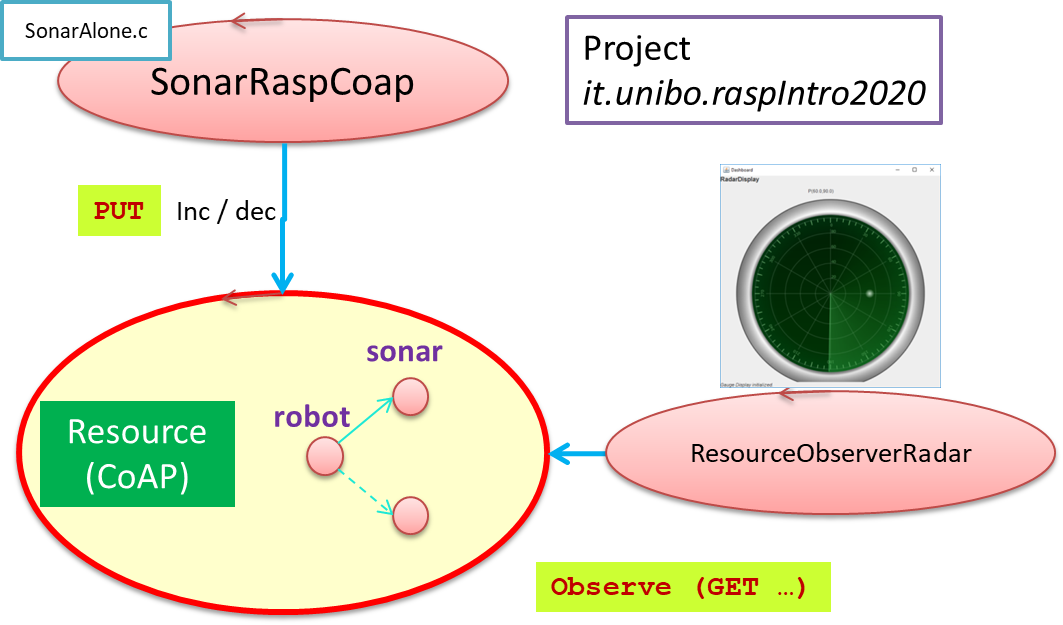
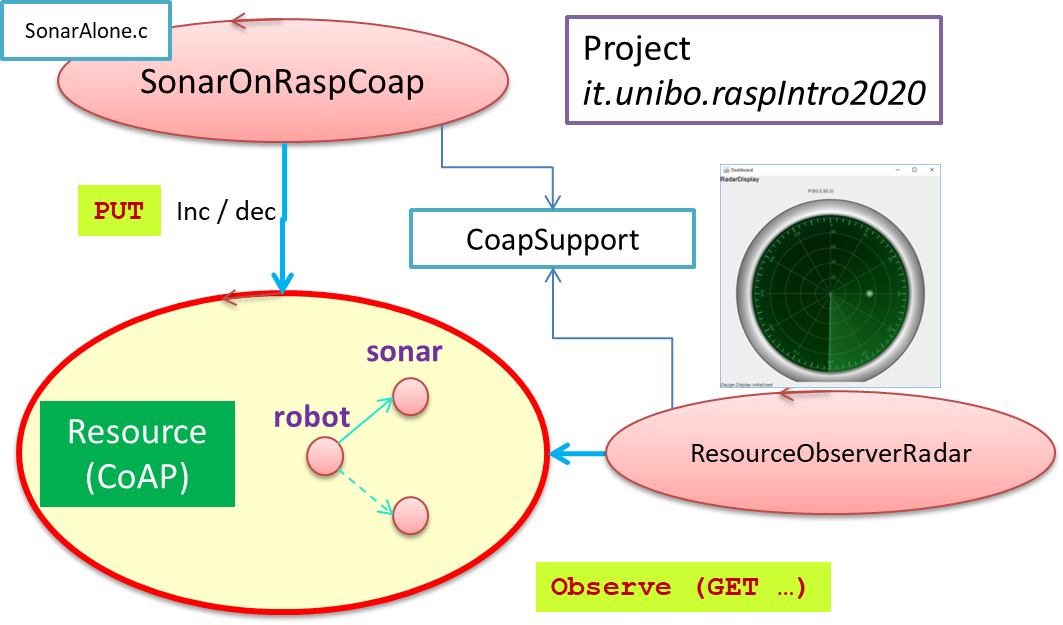
LabSonar again

diff --git a/it.unibo.coapintro/userDocs/LabCoAP.html b/it.unibo.coapintro/userDocs/LabCoAP.html
@@ -154,9 +154,73 @@ table, th, td {
 </div>  
 
 <div class="body"> 
-<h2>Introduction</h2>
+<h2>Introduction: Representational State Transfer (REST)</h2>
 
-<h3>The Constrained Application Protocol</h3>
+REST is a <em>resource-oriented architecture</em> (<k>ROA</k>), where every component of a system or an
+application is called a <em>resource</em>. A resource is explicitly identified and can be individually addressed.  
+<br/><br/>
+Using the exact same standard naming scheme as all other web resources
+allows you to seamlessly integrate Things and their properties into the web because
+their functions, data, or sensors can be linked to, shared, bookmarked, and used just
+like anything else on the web.
+<br/><br/>
+Let us recall the basic concepts:
+
+
+<ol>
+<li>Interactions between components are based on the <em>request-response pattern</em>, where a client
+sends a request to a server and gets back a response</li>
+<li>Loose coupling between components can be achieved using a <em>uniform interface</em> that all components in the system respect.<br/>
+Uniform interfaces make it easy to design a <em>layered system</em>, which means that several
+intermediate components can hide what’s behind them.</li>
+<li><em>Caching</em> is a key element in the performance.<br/><br/></li>
+<li>A <em>resource</em> is any concept or piece of data in an application
+that needs to be referenced or used. Every resource must have a <em>unique identifier</em>
+and should be addressable using a <em>unique referencing mechanism</em>. On the
+web, this is done by assigning every resource a unique <k>URL</k> .</li>
+<li>A <k>URL</k> (<em>Uniform Resource Locator</em>) is a type of <tt>URI</tt> ( (<em>Uniform Resource Identifier</em>)) that identifies a resource via a representation of its primary
+access mechanism. On the web, a <tt>URL</tt> is a <tt>URI</tt> beginning with the <tt>http:// scheme</tt>
+<br/>
+<table style="width:100%" border="1">
+<tr>
+<td style="width:50%">
+<img src="./img/thingURL.png" alt="thingURL" width="90%"  />
+</td>
+<td><h3>A Thing URL</h3>
+<m>
+the protocol is <tt>HTTP+TLS/SSL</tt> (<k>HTTPS</k>); <br/>
+the domain is resolved by <tt>DNS</tt> to an <tt>IP</tt> address; <br/>
+the port is used by <tt>TCP</tt> to know what process to redirect to;<br/>
+finally the <tt>REST</tt> resource is specified.
+</m>
+</td>
+</tr>
+</table>
+
+<br/> 
+
+</li>
+<li>A <k>URI</k> (standard scheme defined in <tt>RFC 3986.4</tt>) 
+is a sequence of characters that unambiguously identifies an abstract or physical
+resource.
+
+<pre>
+
+&lt;scheme> ":" <authority><path> [ "?" query ] [ "#" fragment ]
+
+</pre>
+</li>
+
+<li>Servers shouldn’t keep track of each client’s state because stateless applications are easier to scale.
+Instead, application state should be addressable via its own URL, and each
+resource should contain links and information about what operations are possible
+in each state and how to navigate across states 
+(<em>Hypermedia as the engine of the application state</em> (<k>HATEOAS</k>)).</li>
+</ol>
+
+
+
+<h2>The Constrained Application Protocol</h2>
 
 From <a href="https://en.wikipedia.org/wiki/Constrained_Application_Protocol" target="web">wikipedia</a> we read:
 
@@ -213,21 +277,24 @@ It is invoked whenever the path of a resource changes, when a child resource is 
 <tbody>	
 <tr>
 <td style="width:50%" ><img src="./img/coapIntro.png" alt="coapIntro" width="100%"  /></td>
-<td>Project <i>it.unibo.coapIntro</i>
+<td>Project <i>it.unibo.coapIntro</i><br/>
 <m>
-<ol>
-<li>Activate the CoAP-observable resource <a href="../src/it/unibo/coapintro/Resource.java" target="code">Resource.java</a><br/><br/></li>
-<li>Look at the initial content of the resource by running the reader-client <a href="../src/it/unibo/coapintro/ResourceClientReader.java" target="code">
-ResourceClientReader.java</a><br/><br/></li>
-<li>Activate a observer-client <a href="../src/it/unibo/coapintro/ResourceClientObserver.java" target="code">ResourceClientObserver.java</a><br/><br/></li>
-<li>Update the resource by running the producer-client <a href="../src/it/unibo/coapintro/ResourceClientProducer.java" target="code">ResourceClientProducer.java</a></li>
-</ol>
+The device has <tt>robot</tt> as root and <tt>sonar</tt> as its sensor resource:
+<img src="./img/urlExample.png" alt="urlExample" width="100%"  /><br/><br/>
 </m>
  </td>
 </tr>
 </tbody>
 </table>
- 
+
+To run:
+<ol>
+<li>Activate the CoAP-observable resource <a href="../src/it/unibo/coapintro/Resource.java" target="code">Resource.java</a>/></li>
+<li>Look at the initial content of the resource by running the reader-client <a href="../src/it/unibo/coapintro/ResourceClientReader.java" target="code">
+ResourceClientReader.java</a></li>
+<li>Activate a observer-client <a href="../src/it/unibo/coapintro/ResourceClientObserver.java" target="code">ResourceClientObserver.java</a></li>
+<li>Update the resource by running the producer-client <a href="../src/it/unibo/coapintro/ResourceClientProducer.java" target="code">ResourceClientProducer.java</a></li>
+</ol>
 	      	
 <br/><br/> 	
 </div>  

diff --git a/it.unibo.raspIntro2020/userDocs/LabSonar_2020.html b/it.unibo.raspIntro2020/userDocs/LabSonar_2020.html
@@ -109,7 +109,7 @@ kc{
 }
 pre{
 	font-family: "Helvetica";
-	font-size: 60%;
+	font-size: 90%;
 	background-color: #fcf8c7;
 	border: 1px solid blue;
 }
@@ -212,8 +212,61 @@ Let us start from the basic principles and concepts of interaction among distrib
 reported in 
 <a href="http://htmlpreview.github.com/?https://github.com/anatali/iss2020Lab/blob/master/it.unibo.coapintro/userDocs/LabCoAP.html" target="lab">
 LabCoAP | Introduction to CoAP</a>.
+<br/><br/>
+Since REST is a <em>resource-oriented architecture</em>,at the center of our system,  there is now the <k>CoapResource</k>
+(<a href="../src/javacode/Resource.java" target="code">Resource.java</a>) defined as follows:
+<table style="width:100%" border="1">
+<tr>
+<td style="width:50%">
+<pre>
+public class Resource extends CoapResource {
+...
+}
+	public static void main(String[] args) {
+		CoapServer server = new CoapServer();
+		server.add( 
+				new Resource("robot").add(
+					new Resource("sonar") )
+		);
+		server.start();
+	}
 
-<i>it.unibo.raspIntro2020</i>
+</pre>
+
+</td>
+
+<td>The device has <tt>robot</tt> as root and <tt>sonar</tt> as its sensor resource:
+<img src="./img/urlExample.png" alt="urlExample" width="100%"  /><br/><br/>
+
+ 
+</td>
+<m></m>
+</tr>
+</table>
+
+ 
+
+This resource allows us to acquire sonar data in RESTful way, by using the CoAP protocol.
+For example:
+<table style="width:100%" border="1">
+<tr>
+<td style="width:50%">
+<pre>
+CoapClient client = new CoapClient();
+String uriStr     = "coap://localhost:5683/robot/sonar";
+client.setURI( uriStr );
+CoapResponse respGet = client.get();
+String sonarData = respGet.getResponseText()
+</pre>
+
+</td>
+<td></td>
+</tr>
+</table>
+
+<br/><br/>
+ 
+ 
 
  <table style="width:98%">
 <tbody>	
@@ -232,17 +285,14 @@ RaspberryPi.  It uses
 <a href="../src/javacode/ResourceObserverRadar.java" target="code">ResourceObserverRadar.java</a> is the application
 that reads the sonar data available of the resource
 <br/><br/></li>
+<li><a href="../src/javacode/CoapSupport.java" target="code">CoapSupport.java</a></li>
 <m></m>
 </td>
 </tr>
 </tbody>
 </table>
 
-
-
-<br/><br/>
-Each sonar value is written a the representation <tt>V</tt> (in base <tt>10</tt) of a  natural number (<tt>0<=V<=400</tt>).
-
+ 
 <h3>A simulator of sonar data</h3>
 The class <a href="../src/kotlincode/sonarOnPcSimulate.kt" target="code">sonarOnPcSimulate.kt</a> provides a simulator
 of sonar data that might be useful during software development in absence of a RaspberryPi.
@@ -252,38 +302,20 @@ This class implements a process that:
 <li>generates a sonar value <tt>V</tt> by reading an input value from the user-console;</li>
 <li>creates an event <tt>EV</tt> as an instance of <tt>ApplMessage</tt>. For example:
 <pre>
-
 msg(sonar,event,sonaronpcsimulated,none,sonar(2,57),2)
- 
 </pre>
 
 <li>updates the CoAP resource
  <a href="../src/javacode/ResourceSonar.java" target="code">ResourceSonar.java</a>
  using the operation <tt>updateTheResource(String msg)</tt> defined in
- <a href="../src/javacode/ResourceSonarSupport.java" target="code">ResourceSonarSupport.java</a>
+ <a href="../src/javacode/CoapSupport.java" target="code">CoapSupport.java</a>
  
  </li>
 </li>
 </ol>
 
-A client working as a CoAP resource observer is defined in:
-<a href="../src/javacode/ResourceClientObserver.java" target="code">ResourceClientObserver.java</a>
+ 
 
-
-<h3>The sonar data-generator on the RaspberryPi</h3>
-<a href="../src/kotlincode/sonarOnRaspShow.kt" target="code">sonarOnRaspShow.kt</a> 
-<!--
-<pre>
-ResourceSonar   (sonardata)
-sonarOnPcSimulate
-ResourceClientObserver
-
-
-sonarOnRaspShow			usa ApplMessage ma no ActorBasic
-
-sonarOnRaspEmit			usa ApplMessage, ActorBasic e emitLocalStreamEvent
-</pre>
--->
 
 <br/><br/>
 </div>  

diff --git a/it.unibo.raspIntro2020/src/javacode/ResourceObserverRadar.java b/it.unibo.raspIntro2020/src/javacode/ResourceObserverRadar.java
@@ -1,28 +1,12 @@
 package javacode;
 
-import java.io.BufferedReader;
-import java.io.IOException;
-import java.io.InputStreamReader;
-import org.eclipse.californium.core.CoapClient;
 import org.eclipse.californium.core.CoapHandler;
-import org.eclipse.californium.core.CoapObserveRelation;
 import org.eclipse.californium.core.CoapResponse;
-
 import alice.tuprolog.Struct;
 import alice.tuprolog.Term;
 import it.unibo.kactor.ApplMessage;
- 
-public class ResourceObserverRadar {
-	private CoapObserveRelation relation = null;
-	private CoapClient client            = null;
-	
-	public ResourceObserverRadar(){
-		client = new CoapClient("coap://localhost:5683/robot/sonar");
-		System.out.println("   ResourceObserverRadar | STARTS ");
-		radarPojo.radarSupport.setUpRadarGui();
-	}
-	
-	//Handle an observed value written as ApplMessage representation 
+
+class DataHandler implements CoapHandler {
 	protected String handleAsApplMessage(String content) {
 		//content = msg(sonar,event,sonarOnRaspCoap,none,sonar(V),N)
 		ApplMessage msg = new ApplMessage(content);
@@ -32,35 +16,32 @@ public class ResourceObserverRadar {
 		System.out.println("ResourceObserverRadar | observes: " + value );
 		return value;
 	}
+
+	@Override public void onLoad(CoapResponse response) {
+		String content  = handleAsApplMessage(response.getResponseText());	 //later ...
+		//String content  = response.getResponseText();
+		System.out.println("DataHandler | observes: " + content );
+		radarPojo.radarSupport.update(content, "90");
+	}					
+	@Override public void onError() {
+		System.out.println("DataHandler |  FAILED (press enter to exit)");
+	}
+}
+
+public class ResourceObserverRadar {
+	private CoapSupport coapSupport = new CoapSupport("coap://localhost:5683");
 	
-	public void  observe( ) {
-		System.out.println(" ResourceObserverRadar | observing ...  "  );
-		relation = client.observe(
-				new CoapHandler() {
-					@Override public void onLoad(CoapResponse response) {
-						//String content  = handleAsApplMessage(response.getResponseText());	
-						String content  = response.getResponseText();
-						System.out.println("ResourceObserverRadar | observes: " + content );
-						radarPojo.radarSupport.update(content, "90");
-					}					
-					@Override public void onError() {
-						System.err.println("OBSERVING FAILED (press enter to exit)");
-					}
-				});		
+	public ResourceObserverRadar(){
+		//client = new CoapClient("coap://localhost:5683/robot/sonar");
+		System.out.println("   ResourceObserverRadar | STARTS ");
+		radarPojo.radarSupport.setUpRadarGui();
+		coapSupport.observeResource( new DataHandler() );
 	}
 	
-	public void waitUserEnd() {
- 		BufferedReader br = new BufferedReader(new InputStreamReader(System.in));
- 		System.out.println("press enter to end ...");		
-		try { br.readLine(); } catch (IOException e) { }		
-		System.out.println("CANCELLATION");		
-		relation.proactiveCancel();		
-	}
+ 	
 	
 	public static void main(String[] args) {
   		ResourceObserverRadar rco = new ResourceObserverRadar();
-		rco.observe( );
-		rco.waitUserEnd();
 	}
 
 }

diff --git a/it.unibo.raspIntro2020/src/javacode/CoapSupport.java b/it.unibo.raspIntro2020/src/javacode/CoapSupport.java
@@ -42,8 +42,8 @@ private CoapObserveRelation relation = null;
 	public void removeObserve() {
 		relation.proactiveCancel();	
 	}
-	public void  observeResource(   ) {
-		relation = client.observe( new MyHandler( ) );
+	public void  observeResource( CoapHandler handler  ) {
+		relation = client.observe( handler );
 	}
 
 	public boolean updateResource( String msg ) {

diff --git a/it.unibo.raspIntro2020/src/javacode/SonarOnRaspCoap.java b/it.unibo.raspIntro2020/src/javacode/SonarOnRaspCoap.java
@@ -13,7 +13,7 @@ private BufferedReader reader;
 	    String coapAddr = reader.readLine();
 		String path     = reader.readLine();
 		System.out.println("coapAddr=" + coapAddr + " path=" + path);
-		coapSupport = new CoapSupport(coapAddr, path);		
+		coapSupport     = new CoapSupport(coapAddr, path);		
 		
 		new Thread() {
 			public void run() {
